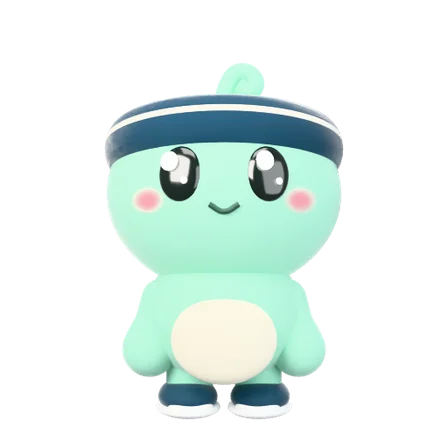
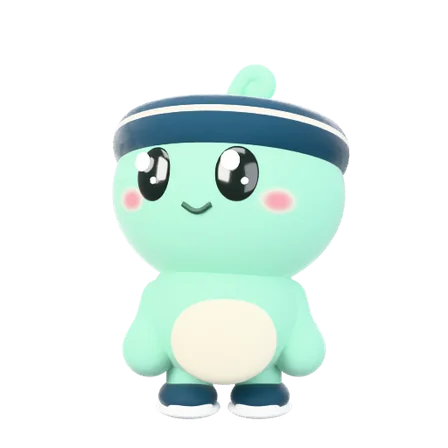
Pip: 7x7 look grid with spring-smoothed bilinear cross-fade follow
Replaces the 3x3 look stills with 49 Blender renders (same scene, camera,
lighting) and makes Pip's head follow the finger continuously: finger maps
to a continuous (row, col), a critically damped spring (~120 ms) smooths it,
and the 4 nearest stills are blended. Frames decode lazily into a capped LRU
and are released when no Pip is on screen. No per-frame work when idle.

Claude-Session: https://claude.ai/code/session_01TDToodQbPJg86keHcVnDSc

diff --git a/app/src/main/java/com/myfit/tracker/ui/pip/Pip.kt b/app/src/main/java/com/myfit/tracker/ui/pip/Pip.kt
@@ -29,7 +29,10 @@ import androidx.compose.runtime.remember
 import androidx.compose.runtime.rememberCoroutineScope
 import androidx.compose.runtime.rememberUpdatedState
 import androidx.compose.runtime.setValue
+import androidx.compose.runtime.snapshotFlow
 import androidx.compose.runtime.withFrameMillis
+import androidx.compose.runtime.withFrameNanos
+import kotlinx.coroutines.flow.first
 import androidx.compose.ui.Modifier
 import androidx.compose.ui.geometry.Offset
 import androidx.compose.ui.geometry.Size
@@ -112,14 +115,63 @@ private data class Fx(val born: Float, val x: Float, val y: Float, val vx: Float
 private val CHEEK = Color(0xFFFF8FAB)
 private val confettiColors = listOf(Color(0xFFFF5C8A), Color(0xFFFFD34D), Color(0xFF4FC3FF), Color(0xFF7CFFB2), Color(0xFFB57CFF))
 
-/** Look-at stills: row 0 = finger above Pip, col 0 = finger to his left (screen left). */
+/**
+ * Look-at stills: a 7×7 grid, assets/pip/look/look_RC.webp. Row 0 = finger above Pip, col 0 = finger to
+ * his left (screen left), 3,3 = neutral. Frames are decoded lazily (only the ones the head passes
+ * through) into a byte-capped LRU shared by every Pip, and dropped when no Pip is on screen.
+ */
 private object LookFrames {
-    @Volatile var frames: Map<String, ImageBitmap>? = null
-    suspend fun load(ctx: android.content.Context): Map<String, ImageBitmap> = frames ?: withContext(Dispatchers.IO) {
-        (0..2).flatMap { r -> (0..2).map { c -> "$r$c" } }.mapNotNull { k ->
-            runCatching { k to ctx.assets.open("pip/look/look_$k.webp").use { BitmapFactory.decodeStream(it) }.asImageBitmap() }.getOrNull()
-        }.toMap()
-    }.also { if (it.isNotEmpty()) frames = it }
+    const val N = 7
+    const val MID = 3f
+    private const val MAX_BYTES = 14 * 1024 * 1024   // ≈17 full-res or all 49 half-res frames
+    private val cache = object : android.util.LruCache<Int, ImageBitmap>(MAX_BYTES) {
+        override fun sizeOf(key: Int, value: ImageBitmap) = value.width * value.height * 4
+    }
+    private val pending = java.util.Collections.synchronizedSet(HashSet<Int>())
+    @Volatile private var sample = 1
+    var users = 0   // Pips in composition (main thread only)
+
+    /** inSampleSize for the current on-screen size: small Pips use half-res (224 px) frames. */
+    fun setSample(px: Int) {
+        val s = if (px in 1..260) 2 else 1
+        if (s != sample) { sample = s; cache.evictAll() }
+    }
+
+    operator fun get(idx: Int): ImageBitmap? = cache.get(idx * 4 + sample)
+
+    /** Decodes [idx] in the background if needed; [onLoaded] runs on the caller's (main) scope. */
+    fun request(ctx: android.content.Context, scope: kotlinx.coroutines.CoroutineScope, idx: Int, onLoaded: () -> Unit) {
+        val s = sample
+        val key = idx * 4 + s
+        if (cache.get(key) != null || !pending.add(key)) return
+        scope.launch {
+            try {
+                val bmp = withContext(Dispatchers.IO) {
+                    runCatching {
+                        val opts = BitmapFactory.Options().apply { inSampleSize = s }
+                        ctx.assets.open("pip/look/look_${idx / N}${idx % N}.webp").use { BitmapFactory.decodeStream(it, null, opts) }?.asImageBitmap()
+                    }.getOrNull()
+                }
+                if (bmp != null && s == sample) { cache.put(key, bmp); onLoaded() }
+            } finally { pending.remove(key) }
+        }
+    }
+
+    fun release() { cache.evictAll() }
+}
+
+/** Critically-damped spring state for the head's (row, col) in the look grid. */
+private class LookSpring {
+    var r = LookFrames.MID; var c = LookFrames.MID
+    var vr = 0f; var vc = 0f
+}
+
+/** One exact critically-damped step toward [target]; returns (pos, vel). ω=40 settles in ≈120 ms. */
+private fun critStep(x: Float, v: Float, target: Float, dt: Float, w: Float = 40f): Pair<Float, Float> {
+    val e = x - target
+    val ex = kotlin.math.exp(-w * dt)
+    val tmp = (v + w * e) * dt
+    return Pair(target + (e + tmp) * ex, (v - w * tmp) * ex)
 }
 
 /** Talking mouth frames (idle pose, mouth closed → wide open), decoded once and shared. */
@@ -166,7 +218,11 @@ fun Pip(
     var redraw by remember { mutableIntStateOf(0) }
     var replay by remember { mutableIntStateOf(0) }
     var resting by remember { mutableStateOf(false) }
-    var lookFrames by remember { mutableStateOf(LookFrames.frames) }
+    var lookOn by remember { mutableStateOf(false) }          // finger down, or head easing back to centre
+    var lookR by remember { mutableFloatStateOf(LookFrames.MID) }
+    var lookC by remember { mutableFloatStateOf(LookFrames.MID) }
+    var lookLoaded by remember { mutableIntStateOf(0) }
+    val lookSpring = remember { LookSpring() }
     val motion = com.myfit.tracker.ui.theme.LocalSettings.current.motion
 
     fun burst(kind: Int, n: Int, cx: Float, cy: Float, spread: Float = 1f) {
@@ -194,7 +250,7 @@ fun Pip(
     val baseAnim = animFor(effMood).let { if (it !in LOOPS && baseDone) "idle" else it }
     val anim = reaction ?: baseAnim
     val showTalk = talking && reaction == null && anim == "idle" && talkFrames != null
-    val looking = pointer != null && reaction == null && !hugging && !showTalk && lookFrames != null
+    val looking = lookOn && reaction == null && !hugging && !showTalk
 
     // ---- the animated clip currently playing
     var drawable by remember { mutableStateOf<Drawable?>(null) }
@@ -226,7 +282,53 @@ fun Pip(
     }
     DisposableEffect(Unit) { onDispose { stopClip(drawable) } }
     LaunchedEffect(talking) { if (talking && talkFrames == null) talkFrames = TalkFrames.load(ctx) }
-    LaunchedEffect(pointer != null) { if (pointer != null && lookFrames == null) lookFrames = LookFrames.load(ctx) }
+    DisposableEffect(Unit) {
+        LookFrames.users++
+        onDispose { if (--LookFrames.users <= 0) { LookFrames.users = 0; LookFrames.release() } }
+    }
+    // ---- smooth look-follow: finger → continuous (row, col) → critically-damped spring → the 4 nearest
+    // stills cross-faded. Runs per frame only while the finger moves or the head is still settling.
+    fun lookTarget(p: Offset?): Pair<Float, Float> {
+        if (p == null) return Pair(LookFrames.MID, LookFrames.MID)
+        val n = LookFrames.N
+        val row = ((p.y / boxPx.height - 0.12f) / 0.82f * n - 0.5f).coerceIn(0f, n - 1f)
+        val col = (p.x / boxPx.width * n - 0.5f).coerceIn(0f, n - 1f)
+        return Pair(row, col)
+    }
+    fun requestLook(r: Float, c: Float) {
+        val n = LookFrames.N
+        val r0 = r.toInt().coerceIn(0, n - 2); val c0 = c.toInt().coerceIn(0, n - 2)
+        for (dr in 0..1) for (dc in 0..1) LookFrames.request(ctx, scope, (r0 + dr) * n + c0 + dc) { lookLoaded++ }
+    }
+    LaunchedEffect(pointer != null) {
+        if (pointer == null && !lookOn) return@LaunchedEffect
+        LookFrames.setSample(boxPx.width)
+        val sp = lookSpring
+        if (!lookOn) { sp.r = LookFrames.MID; sp.c = LookFrames.MID; sp.vr = 0f; sp.vc = 0f; lookR = sp.r; lookC = sp.c }
+        requestLook(sp.r, sp.c)
+        lookOn = true
+        var last = withFrameNanos { it }
+        while (true) {
+            if (reaction != null || hugging) { lookOn = false; break }   // a tap/hug took over
+            val p = pointer
+            val (tr, tc) = lookTarget(p)
+            val settled = abs(sp.r - tr) < 0.01f && abs(sp.c - tc) < 0.01f && abs(sp.vr) < 0.05f && abs(sp.vc) < 0.05f
+            if (settled) {
+                sp.r = tr; sp.c = tc; sp.vr = 0f; sp.vc = 0f; lookR = tr; lookC = tc
+                if (p == null) { lookOn = false; break }                   // back at centre: hand over to the clip
+                snapshotFlow { pointer }.first { it != p }                   // finger resting: no per-frame work
+                last = withFrameNanos { it }
+                continue
+            }
+            val now = withFrameNanos { it }
+            val dt = ((now - last) / 1e9f).coerceIn(0f, 0.05f); last = now
+            critStep(sp.r, sp.vr, tr, dt).let { (x, v) -> sp.r = x; sp.vr = v }
+            critStep(sp.c, sp.vc, tc, dt).let { (x, v) -> sp.c = x; sp.vc = v }
+            lookR = sp.r; lookC = sp.c
+            requestLook(sp.r, sp.c)
+            requestLook(tr, tc)   // prefetch where the head is heading
+        }
+    }
     // idle breathing plays, rests 3–6 s on its last frame, then plays again (never in Battery saver)
     LaunchedEffect(resting, motion) {
         if (resting && motion != 2) { delay(3000L + Random.nextLong(3000L)); resting = false; replay++ }
@@ -323,12 +425,8 @@ fun Pip(
             redraw // re-draw whenever the clip advances a frame
             val w = this.size.width.toInt(); val h = this.size.height.toInt()
             val talkF = talkFrames
-            val lookF = lookFrames
-            val p = pointer
-            if (looking && lookF != null && p != null) {
-                val col = (p.x / this.size.width * 3f).toInt().coerceIn(0, 2)
-                val row = ((p.y / this.size.height - 0.12f) / 0.82f * 3f).toInt().coerceIn(0, 2)
-                lookF["$row$col"]?.let { drawImage(it, dstOffset = IntOffset.Zero, dstSize = IntSize(w, h)) }
+            if (looking && drawLook(lookR, lookC, lookLoaded, w, h)) {
+                // drawn: bilinear cross-fade of the 4 nearest look stills
             } else if (showTalk && talkF != null) {
                 val lv = if (level < 0f) 0.25f + 0.6f * abs(sin(t * 11f) * sin(t * 4.3f + 1f)) else level
                 val idx = (lv.coerceIn(0f, 1f) * (talkF.size - 1) + 0.4f).toInt().coerceIn(0, talkF.size - 1)
@@ -370,6 +468,34 @@ fun Pip(
             }
         }
     }
+}
+
+/**
+ * Draws the head at continuous grid position ([r], [c]) by blending the 4 surrounding stills with
+ * bilinear weights. Frames are drawn heaviest first, each with alpha = w / Σw-so-far, so overlapping
+ * opaque pixels end up as an exact weighted average and the silhouette stays fully opaque.
+ * Returns false if none of the needed frames is decoded yet (caller falls back to the clip).
+ */
+private fun DrawScope.drawLook(r: Float, c: Float, @Suppress("UNUSED_PARAMETER") loaded: Int, w: Int, h: Int): Boolean {
+    val n = LookFrames.N
+    val r0 = r.toInt().coerceIn(0, n - 2); val c0 = c.toInt().coerceIn(0, n - 2)
+    val fr = (r - r0).coerceIn(0f, 1f); val fc = (c - c0).coerceIn(0f, 1f)
+    val parts = ArrayList<Pair<ImageBitmap, Float>>(4)
+    fun add(rr: Int, cc: Int, wt: Float) { if (wt > 0.004f) LookFrames[rr * n + cc]?.let { parts += it to wt } }
+    add(r0, c0, (1 - fr) * (1 - fc)); add(r0, c0 + 1, (1 - fr) * fc)
+    add(r0 + 1, c0, fr * (1 - fc)); add(r0 + 1, c0 + 1, fr * fc)
+    if (parts.isEmpty()) {
+        // nothing around here decoded yet: show the nearest frame we do have, if any
+        val near = LookFrames[(r + 0.5f).toInt().coerceIn(0, n - 1) * n + (c + 0.5f).toInt().coerceIn(0, n - 1)] ?: return false
+        parts += near to 1f
+    }
+    parts.sortByDescending { it.second }
+    var acc = 0f
+    for ((bmp, wt) in parts) {
+        acc += wt
+        drawImage(bmp, srcOffset = IntOffset.Zero, srcSize = IntSize(bmp.width, bmp.height), dstOffset = IntOffset.Zero, dstSize = IntSize(w, h), alpha = wt / acc)
+    }
+    return true
 }
 
 /** End-callbacks of clips that were replaced; muted so a late "animation ended" can't act on the new clip. */
